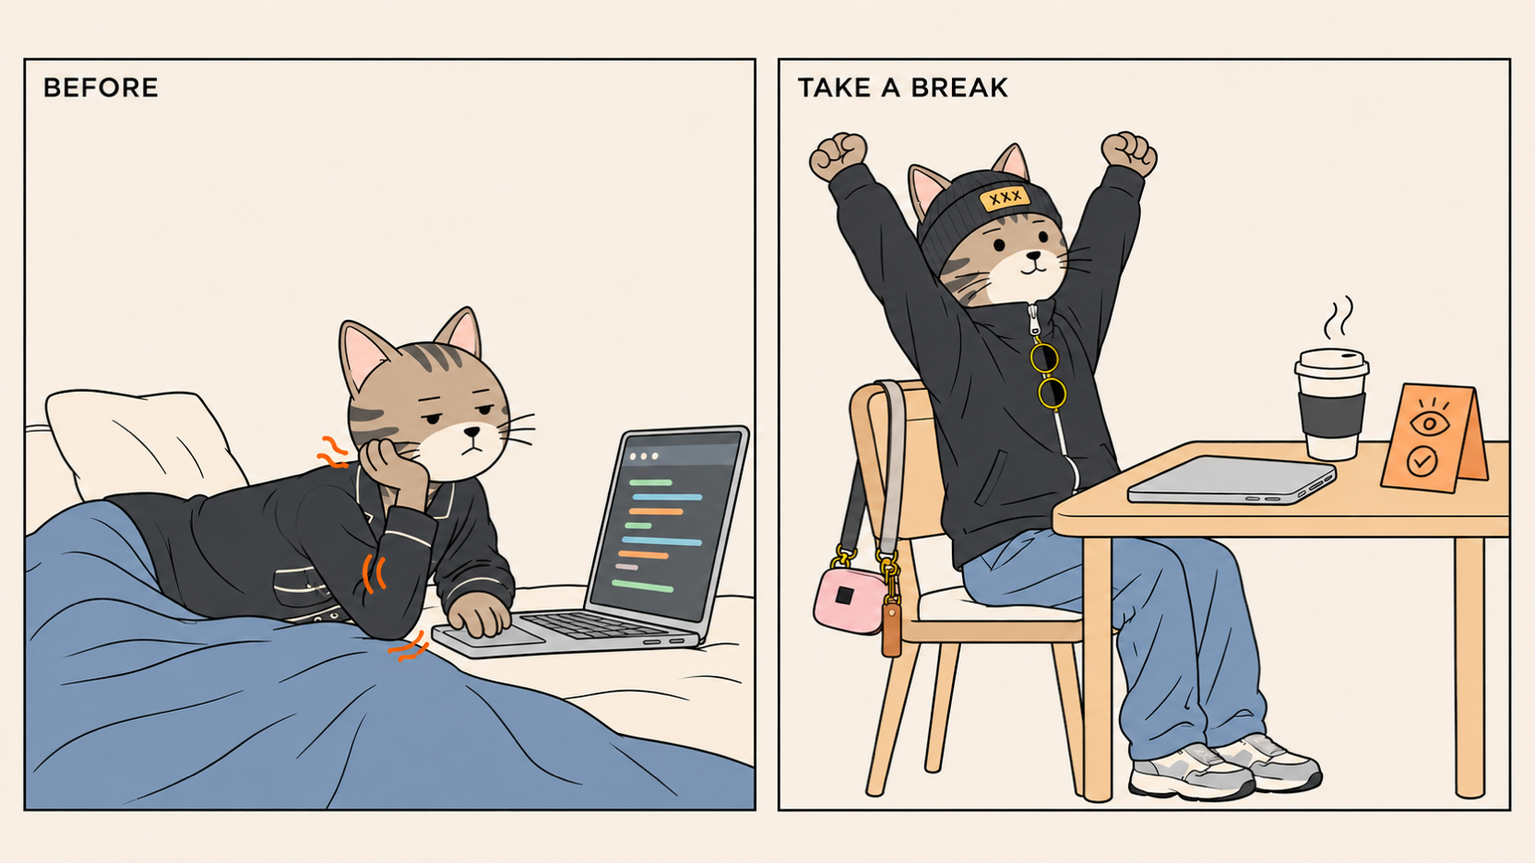
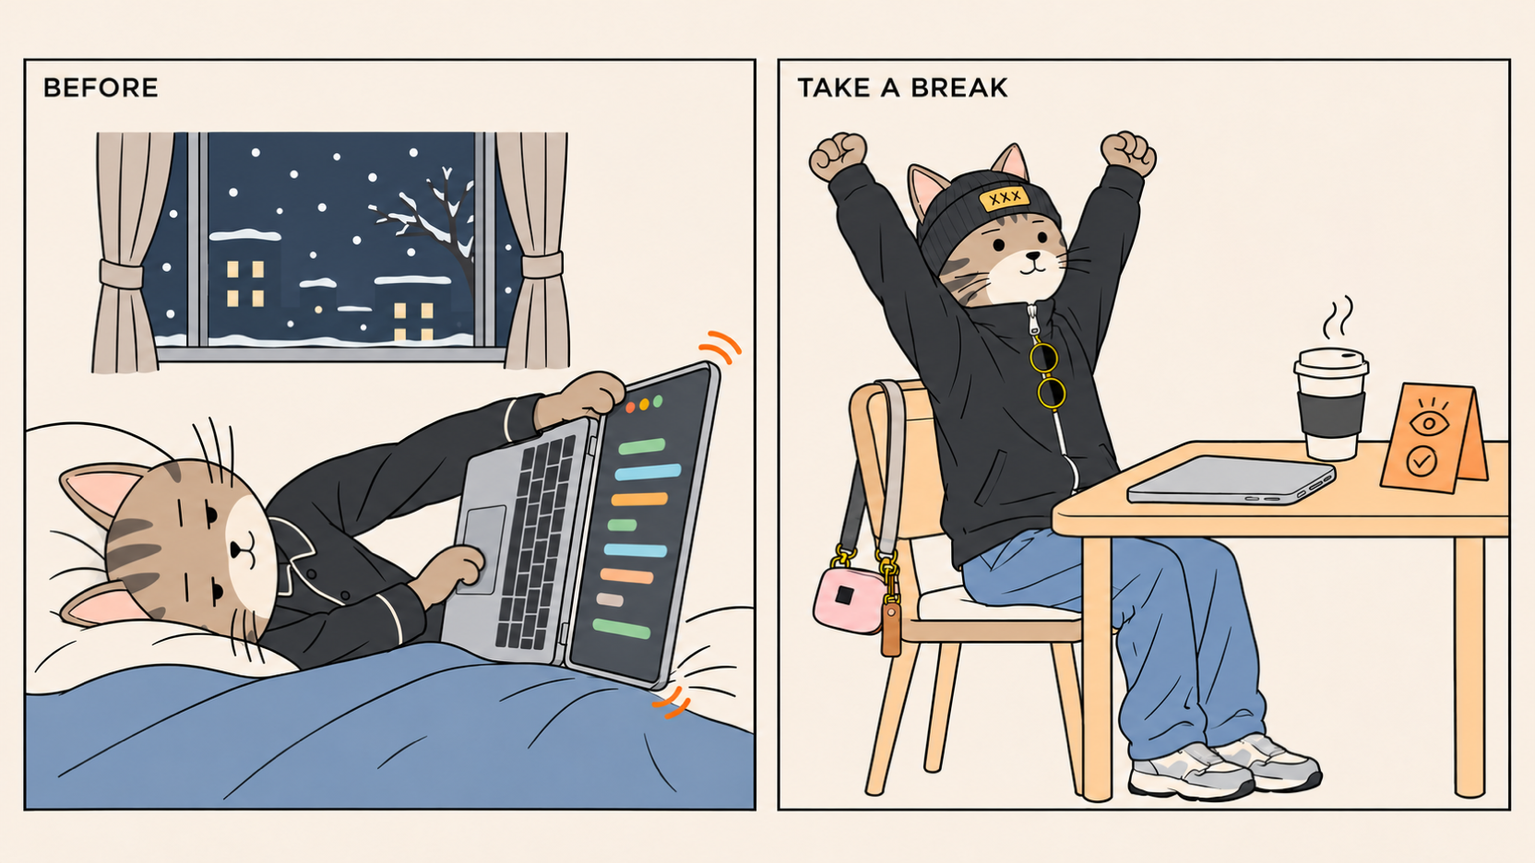
fix(trackpad): align 90°/270° transforms with CGDisplayRotation & refresh v0.2.3 UI/docs

diff --git a/Sources/SpinMacApp/MacBookPoseView.swift b/Sources/SpinMacApp/MacBookPoseView.swift
@@ -1,9 +1,10 @@
 import SpinMacCore
 import SwiftUI
 
-/// Dual-body geometric vector MacBook silhouette displaying live Display AND Trackpad orientation.
-/// - Display lid rotates smoothly with `displayAngle`.
-/// - Trackpad directional arrow independently reflects `effectiveTrackpadAngle` and `trackpadMode`.
+/// Flat-chassis dual-body geometric MacBook silhouette displaying live Display AND Trackpad orientation.
+/// - MacBook hardware stays flat and horizontal, matching real flat-on-bed / flat-on-desk placement.
+/// - Inside the display lid, an active edge bar + directional arrow point toward the rotated visual TOP.
+/// - Inside the glass trackpad, an independent directional arrow reflects `effectiveTrackpadAngle` and `trackpadMode`.
 struct MacBookPoseView: View {
     let displayAngle: SpinAngle
     let effectiveTrackpadAngle: SpinAngle
@@ -28,7 +29,7 @@ struct MacBookPoseView: View {
 
     private var trackpadArrowRotation: Double {
         if trackpadMode == .off { return 0 }
-        return -effectiveTrackpadAngle.visualRotationDegrees
+        return effectiveTrackpadAngle.contentTopDegrees
     }
 
     private var stageBadgeText: String {
@@ -51,7 +52,7 @@ struct MacBookPoseView: View {
                         .strokeBorder(Color.primary.opacity(isHovering ? 0.12 : 0.07), lineWidth: 1)
                         .frame(width: 102, height: 102)
 
-                    // Cardinal degree ticks
+                    // Cardinal degree ticks aligned directly with content-top arrow directions (0° up, 90° right, 180° down, 270° left)
                     ForEach(SpinAngle.allCases) { tickAngle in
                         let isDisplayTick = tickAngle == displayAngle
                         let isPadOnlyTick = isIndependentSplit && tickAngle == effectiveTrackpadAngle
@@ -65,19 +66,19 @@ struct MacBookPoseView: View {
                                 height: (isDisplayTick || isPadOnlyTick) ? 5 : 3
                             )
                             .offset(y: -51)
-                            .rotationEffect(.degrees(tickAngle.visualRotationDegrees))
+                            .rotationEffect(.degrees(tickAngle.contentTopDegrees))
                     }
 
-                    // Rotating MacBook hardware silhouette
+                    // Flat MacBook hardware silhouette — stays horizontal while screen & trackpad axes rotate
                     VStack(spacing: 3) {
                         // Display lid
-                        ZStack(alignment: .top) {
+                        ZStack {
                             RoundedRectangle(cornerRadius: 6, style: .continuous)
                                 .fill(
                                     LinearGradient(
                                         colors: [
-                                            Color.accentColor.opacity(displayAngle == .deg0 ? 0.12 : 0.26),
-                                            Color.accentColor.opacity(displayAngle == .deg0 ? 0.05 : 0.11),
+                                            Color.accentColor.opacity(displayAngle == .deg0 ? 0.12 : 0.24),
+                                            Color.accentColor.opacity(displayAngle == .deg0 ? 0.05 : 0.10),
                                         ],
                                         startPoint: .topLeading,
                                         endPoint: .bottomTrailing
@@ -88,28 +89,34 @@ struct MacBookPoseView: View {
                                         .strokeBorder(Color.primary.opacity(0.30), lineWidth: 1.4)
                                 )
 
-                            // Camera notch
-                            RoundedRectangle(cornerRadius: 1.5, style: .continuous)
-                                .fill(Color.primary.opacity(0.35))
-                                .frame(width: 12, height: 3)
-                                .padding(.top, 2)
+                            // Physical camera notch stays centered on the top bezel
+                            VStack {
+                                RoundedRectangle(cornerRadius: 1.5, style: .continuous)
+                                    .fill(Color.primary.opacity(0.35))
+                                    .frame(width: 12, height: 3)
+                                    .padding(.top, 2)
+                                Spacer(minLength: 0)
+                            }
 
-                            // Visual "TOP" direction indicator inside display
+                            // Active visual-top ("menu bar") edge indicator inside the flat screen
+                            rotatedTopEdgeBar
+
+                            // Visual "TOP" direction arrow + always-upright angle label
                             VStack(spacing: 1) {
                                 Image(systemName: "arrow.up")
-                                    .font(.system(size: 9.5, weight: .semibold))
+                                    .font(.system(size: 10, weight: .bold))
                                     .foregroundStyle(displayAngle == .deg0 ? Color.secondary : Color.accentColor)
+                                    .rotationEffect(.degrees(displayAngle.contentTopDegrees))
                                 Text(displayAngle.label)
                                     .font(.system(size: 8.5, weight: .semibold, design: .rounded))
                                     .monospacedDigit()
                                     .foregroundStyle(.primary.opacity(0.84))
                             }
-                            .frame(maxHeight: .infinity)
-                            .rotationEffect(.degrees(-displayAngle.visualRotationDegrees))
+                            .padding(.top, 3)
                         }
-                        .frame(width: 64, height: 40)
+                        .frame(width: 66, height: 42)
 
-                        // Lower deck + glass trackpad
+                        // Lower deck + glass trackpad (always flat)
                         ZStack {
                             RoundedRectangle(cornerRadius: 4, style: .continuous)
                                 .fill(Color.primary.opacity(0.06))
@@ -136,10 +143,9 @@ struct MacBookPoseView: View {
                                 }
                                 .frame(width: 24, height: 13)
                         }
-                        .frame(width: 64, height: 20)
+                        .frame(width: 66, height: 20)
                     }
-                    .rotationEffect(.degrees(displayAngle.visualRotationDegrees))
-                    .animation(.spring(response: 0.4, dampingFraction: 0.8), value: displayAngle)
+                    .animation(.spring(response: 0.35, dampingFraction: 0.82), value: displayAngle)
                     .animation(.spring(response: 0.35, dampingFraction: 0.82), value: effectiveTrackpadAngle)
                     .animation(.spring(response: 0.3, dampingFraction: 0.85), value: trackpadMode)
                 }
@@ -180,5 +186,39 @@ struct MacBookPoseView: View {
             isPressed = pressing
         }, perform: {})
         .help(l10n.t("popover.pose.help"))
+    }
+
+    @ViewBuilder
+    private var rotatedTopEdgeBar: some View {
+        switch displayAngle {
+        case .deg0:
+            EmptyView()
+        case .deg90:
+            // macOS 90° CW: physical left edge becomes visual top (menu bar)
+            HStack {
+                Capsule()
+                    .fill(Color.accentColor.opacity(0.85))
+                    .frame(width: 2.5, height: 26)
+                    .padding(.leading, 3)
+                Spacer(minLength: 0)
+            }
+        case .deg180:
+            VStack {
+                Spacer(minLength: 0)
+                Capsule()
+                    .fill(Color.accentColor.opacity(0.85))
+                    .frame(width: 34, height: 2.5)
+                    .padding(.bottom, 3)
+            }
+        case .deg270:
+            // macOS 270° CW (90° CCW): physical right edge becomes visual top (menu bar)
+            HStack {
+                Spacer(minLength: 0)
+                Capsule()
+                    .fill(Color.accentColor.opacity(0.85))
+                    .frame(width: 2.5, height: 26)
+                    .padding(.trailing, 3)
+            }
+        }
     }
 }

diff --git a/Tests/SpinMacCoreTests/SpinMacCoreTests.swift b/Tests/SpinMacCoreTests/SpinMacCoreTests.swift
@@ -12,25 +12,29 @@ struct SpinMacCoreTests {
         #expect(out.dy == -7)
     }
 
-    @Test("270° maps physical left/right/up/down cleanly to visual portrait axes")
-    func deg270ScreenDelta() {
-        let t = AxisTransform(angle: .deg270)
+    @Test("90° (CGDisplayRotation 90° CW: physical left edge is visual top) maps deltas cleanly")
+    func deg90ScreenDelta() {
+        let t = AxisTransform(angle: .deg90)
+        // Physical left (-x) -> visual up (-y)
         let up = t.transformScreenDelta(dx: -10, dy: 0)
         #expect(up.dx == 0)
         #expect(up.dy == -10)
 
+        // Physical up (-y, toward hinge) -> visual right (+x)
         let right = t.transformScreenDelta(dx: 0, dy: -10)
         #expect(right.dx == 10)
         #expect(right.dy == 0)
     }
 
-    @Test("90° is exact opposite of 270°")
-    func deg90ScreenDelta() {
-        let t = AxisTransform(angle: .deg90)
+    @Test("270° (CGDisplayRotation 270° CW: physical right edge is visual top) is exact opposite of 90°")
+    func deg270ScreenDelta() {
+        let t = AxisTransform(angle: .deg270)
+        // Physical right (+x) -> visual up (-y)
         let up = t.transformScreenDelta(dx: 10, dy: 0)
         #expect(up.dx == 0)
         #expect(up.dy == -10)
 
+        // Physical down (+y, toward user) -> visual right (+x)
         let right = t.transformScreenDelta(dx: 0, dy: 10)
         #expect(right.dx == 10)
         #expect(right.dy == 0)
@@ -44,25 +48,28 @@ struct SpinMacCoreTests {
         #expect(out.dy == 5)
     }
 
-    @Test("Dock swipe axes rotate consistently at 270° (Spaces <-> Mission Control)")
-    func dockSwipe270() {
-        let t = AxisTransform(angle: .deg270)
+    @Test("Dock swipe axes rotate consistently at 90° (Spaces <-> Mission Control)")
+    func dockSwipe90() {
+        let t = AxisTransform(angle: .deg90)
+        // Physical left swipe (motion 1, progress -0.6) -> visual UP Mission Control (motion 2, progress +0.6)
         let mc = t.transformDockSwipe(motion: 1, progress: -0.6)
         #expect(mc.motion == 2)
         #expect(abs(mc.progress - 0.6) < 0.0001)
 
+        // Physical up swipe (motion 2, progress +0.5) -> visual RIGHT Spaces (motion 1, progress +0.5)
         let sp = t.transformDockSwipe(motion: 2, progress: 0.5)
         #expect(sp.motion == 1)
         #expect(abs(sp.progress - 0.5) < 0.0001)
     }
 
     @Test("Normalized touch point rotation preserves center and maps edges accurately")
-    func normalizedPoint270() {
-        let t = AxisTransform(angle: .deg270)
+    func normalizedPoint90() {
+        let t = AxisTransform(angle: .deg90)
         let center = t.transformNormalizedYDownPoint(CGPoint(x: 0.5, y: 0.5))
         #expect(abs(center.x - 0.5) < 0.0001)
         #expect(abs(center.y - 0.5) < 0.0001)
 
+        // At 90° CW, physical left edge (x=0, y=0.5) maps to visual top (x=0.5, y=0.0)
         let leftMid = t.transformNormalizedYDownPoint(CGPoint(x: 0.0, y: 0.5))
         #expect(abs(leftMid.x - 0.5) < 0.0001)
         #expect(abs(leftMid.y - 0.0) < 0.0001)
@@ -72,12 +79,12 @@ struct SpinMacCoreTests {
     func autoCalibrateInference() {
         // 0°: physical swipe UP -> dy < 0
         #expect(AxisTransform.inferAngleForUpwardSwipe(rawYDownDeltaX: 0.02, rawYDownDeltaY: -0.35) == .deg0)
-        // 90°: physical right edge is top -> swipe right (dx > 0)
-        #expect(AxisTransform.inferAngleForUpwardSwipe(rawYDownDeltaX: 0.40, rawYDownDeltaY: 0.03) == .deg90)
+        // 90° CW: physical left edge is top -> swipe left (dx < 0)
+        #expect(AxisTransform.inferAngleForUpwardSwipe(rawYDownDeltaX: -0.38, rawYDownDeltaY: -0.04) == .deg90)
         // 180°: inverted -> swipe down (dy > 0)
         #expect(AxisTransform.inferAngleForUpwardSwipe(rawYDownDeltaX: -0.02, rawYDownDeltaY: 0.35) == .deg180)
-        // 270°: physical left edge is top -> swipe left (dx < 0)
-        #expect(AxisTransform.inferAngleForUpwardSwipe(rawYDownDeltaX: -0.38, rawYDownDeltaY: -0.04) == .deg270)
+        // 270° CW: physical right edge is top -> swipe right (dx > 0)
+        #expect(AxisTransform.inferAngleForUpwardSwipe(rawYDownDeltaX: 0.40, rawYDownDeltaY: 0.03) == .deg270)
         // Tiny accidental tap rejected
         #expect(AxisTransform.inferAngleForUpwardSwipe(rawYDownDeltaX: 0.03, rawYDownDeltaY: -0.04) == nil)
     }
@@ -195,5 +202,24 @@ struct SpinMacCoreTests {
         #expect(TrackpadScope.externalOnly.matches(isBuiltIn: false) == true)
         #expect(TrackpadScope.allTrackpads.matches(isBuiltIn: true) == true)
         #expect(TrackpadScope.allTrackpads.matches(isBuiltIn: false) == true)
+    }
+
+    @Test("Flat-chassis contentTopDegrees matches AxisTransform visual-UP direction across all 4 angles")
+    func contentTopDegreesInvariant() {
+        // 0° -> up (0°), 90° -> left (-90°), 180° -> down (180°), 270° -> right (+90°)
+        #expect(SpinAngle.deg0.contentTopDegrees == 0)
+        #expect(SpinAngle.deg90.contentTopDegrees == -90)
+        #expect(SpinAngle.deg180.contentTopDegrees == 180)
+        #expect(SpinAngle.deg270.contentTopDegrees == 90)
+
+        for angle in SpinAngle.allCases {
+            // Arrow pointing in contentTopDegrees (clockwise from up 0,-1) equals physical vector that maps to visual UP (0,-1).
+            let rad = angle.contentTopDegrees * .pi / 180.0
+            let physDx = sin(rad)
+            let physDy = -cos(rad)
+            let mapped = AxisTransform(angle: angle).transformScreenDelta(dx: physDx, dy: physDy)
+            #expect(abs(mapped.dx) < 0.0001)
+            #expect(abs(mapped.dy - (-1.0)) < 0.0001)
+        }
     }
 }

diff --git a/Sources/SpinMacCore/AxisTransform.swift b/Sources/SpinMacCore/AxisTransform.swift
@@ -39,15 +39,17 @@ public struct AxisTransform: Equatable, Sendable {
         case .deg0:
             return (x, y)
         case .deg90:
-            // Screen rotated 90° (physical right edge is visual top):
-            // physical +x (right) -> visual -y (up); physical +y (down) -> visual +x (right)
-            return (y, -x)
+            // macOS CGDisplayRotation 90° CW (kIOScaleRotate90 = SwapAxes | InvertX):
+            // physical left edge is visual top; physical top is visual right.
+            // physical -x (left) -> visual -y (up); physical -y (up) -> visual +x (right)
+            return (-y, x)
         case .deg180:
             return (-x, -y)
         case .deg270:
-            // Screen rotated 270° (physical left edge is visual top):
-            // physical -x (left) -> visual -y (up); physical -y (up) -> visual +x (right)
-            return (-y, x)
+            // macOS CGDisplayRotation 270° CW / 90° CCW (kIOScaleRotate270 = SwapAxes | InvertY):
+            // physical right edge is visual top; physical bottom is visual right.
+            // physical +x (right) -> visual -y (up); physical +y (down) -> visual +x (right)
+            return (y, -x)
         }
     }
 

diff --git a/Sources/SpinMacCore/Models.swift b/Sources/SpinMacCore/Models.swift
@@ -18,8 +18,19 @@ public enum SpinAngle: Int32, CaseIterable, Codable, Sendable, Identifiable {
         self == .deg90 || self == .deg270
     }
 
-    /// Physical clockwise visual rotation in degrees for rendering a laptop silhouette.
+    /// Physical clockwise visual rotation in degrees per Apple `CGDisplayRotation` convention.
     public var visualRotationDegrees: Double {
+        switch self {
+        case .deg0: return 0
+        case .deg90: return 90
+        case .deg180: return 180
+        case .deg270: return -90
+        }
+    }
+
+    /// Clockwise arrow angle on a flat laptop chassis pointing toward the physical edge that becomes visual TOP.
+    /// Aligned 1:1 with Apple `CGDisplayRotation` + `kIOScaleRotate*` (`90°` -> left edge `-90°`, `270°` -> right edge `+90°`).
+    public var contentTopDegrees: Double {
         switch self {
         case .deg0: return 0
         case .deg90: return -90

diff --git a/README.md b/README.md
@@ -1,12 +1,12 @@
 <div align="center">
 
-<img src="docs/assets/hero-bed-vibe-coding.png" alt="SpinMac — Late-night sideways laptop setup in bed with rotated screen and trackpad" width="100%"/>
+<img src="docs/assets/hero-bed-vibe-coding.png" alt="SpinMac — Late-night bed vibe coding with MacBook sitting flat on the mattress while screen and trackpad rotate 90° to match sideways eyes" width="100%"/>
 
 <br/><br/>
 
 # SpinMac
 
-**Built for cold-night vibe coding in bed. Stand your laptop on its side and spin the screen, trackpad, and every gesture to match.**
+**Built for cold-night vibe coding in bed. Keep your MacBook flat on the mattress and spin the screen, trackpad, and every gesture to match your sideways eyes.**
 
 Native SwiftUI & AppKit · Linked or Decoupled Orientation · Full Multi-Touch Parity · **0.0% Idle CPU**
 
@@ -30,14 +30,12 @@ Native SwiftUI & AppKit · Linked or Decoupled Orientation · Full Multi-Touch P
 
 Everyone is vibe coding nonstop right now, and I got completely hooked too. Most nights I am still messing with code past 2 AM. Now that the weather has turned cold, sitting upright at a desk late at night feels miserable. I just want to crawl under a warm blanket early with my laptop.
 
-Before writing this tool, my bed setup looked pretty ridiculous: laptop sitting flat on the mattress to my right, lying on my right side facing it, right elbow jammed into the bed, forearm folded straight back up with my right palm propping up the side of my head so my eyes stayed level, while my left hand reached across for the trackpad. Ten minutes in, my arm was numb and my neck hated me.
+Lying sideways on a pillow in bed, I realized that standing a MacBook up on its side edge actually lines the screen up with sideways eyes. The problem is obvious the moment you try it on a soft mattress: the laptop wobbles and wants to tip over constantly, and typing or using a vertical trackpad in mid-air is miserable.
 
-One night I stood the laptop up sideways on its edge instead. Turns out it balances rock-solid on a mattress, and I could finally put my head flat on the pillow. The catch is that macOS hides the Display Rotation setting whenever no external monitor is plugged in. Even after forcing the screen sideways, the trackpad stays locked upright, so swiping up sends the cursor flying sideways and every multi-finger gesture fights you.
-
-So I made **SpinMac**. Whether you roll onto your right side (`270°`) or your left side (`90°`), one shortcut (`⌃⌥⌘R`) spins the built-in display, the trackpad, and all your multi-touch gestures together. You can also decouple them completely if you want different angles on screen and trackpad.
+So I built **SpinMac**. Instead of balancing your MacBook on its edge, **leave the laptop completely flat and rock-solid on the bed**, put your head down on the pillow, and spin the display and trackpad in software. macOS hides Display Rotation whenever no external monitor is plugged in, and rotating only the screen leaves the trackpad fighting every swipe. With SpinMac, one shortcut (`⌃⌥⌘R`) rotates the built-in display, the trackpad, and every multi-touch gesture together — `90°` (`Top ←`, left edge up) when lying on your left side, or `270°` (`Top →`, right edge up) when lying on your right side. You can also decouple display and trackpad angles completely.
 
 <div align="center">
-  <img src="docs/assets/before-and-break.png" alt="Before SpinMac: propping head with numb right elbow vs. remembering to take a break at a desk" width="100%"/>
+  <img src="docs/assets/before-and-break.png" alt="Before SpinMac: trying to balance a sideways laptop on a soft mattress vs. taking an eye-health break at a desk" width="100%"/>
 </div>
 
 > **Friendly Eye-Health Reminder**
@@ -156,7 +154,7 @@ No. SpinMac registers both `applicationWillTerminate` and a C-level `atexit` hoo
 
 ## Author, Contributing & License
 
-Built by **BobbyCat** ([`@BobbyCat2025` on X](https://x.com/BobbyCat2025) · [GitHub](https://github.com/BobbyCats)). If SpinMac saved your right elbow (or enabled a very cozy 2 AM coding session), come say hi on X — I share weird little tools I build for myself and the messy logs behind them.
+Built by **BobbyCat** ([`@BobbyCat2025` on X](https://x.com/BobbyCat2025) · [GitHub](https://github.com/BobbyCats)). If SpinMac saved your MacBook from tipping over on your bed (or enabled a very cozy 2 AM coding session), come say hi on X — I share weird little tools I build for myself and the messy logs behind them.
 
 <details>
 <summary>☕ <strong>Enjoying SpinMac? Buy Me a Coffee (WeChat Tip QR)</strong></summary>

diff --git a/README.zh-CN.md b/README.zh-CN.md
@@ -1,12 +1,12 @@
 <div align="center">
 
-<img src="docs/assets/hero-bed-vibe-coding.png" alt="SpinMac — 凌晨两点缩在被窝里侧躺立着玩电脑，屏幕与触控板同步旋转" width="100%"/>
+<img src="docs/assets/hero-bed-vibe-coding.png" alt="SpinMac — 凌晨两点缩在被窝里侧躺玩电脑，笔记本稳稳平放在床上，屏幕画面与触控板同步旋转 90° 对齐视线" width="100%"/>
 
 <br/><br/>
 
 # SpinMac
 
-**天冷不想离开被窝？把电脑沿着侧面立在床上，屏幕、触控板和多指手势一键跟着转过来。**
+**天冷不想离开被窝？不用把电脑立着放，让它稳稳平摊在床上，只把屏幕、触控板和多指手势一键跟着转过来。**
 
 纯原生 SwiftUI & AppKit · 联动或独立旋转 · 多指手势全量一致 · **静止 0.0% CPU**
 
@@ -30,14 +30,12 @@
 
 最近大家都在 vibe coding，我也彻底上瘾，经常一写就搞到凌晨。天冷下来以后，晚上实在不想在书桌前干坐着，只想早点钻被窝缩着玩电脑，恨不得睡觉都抱着电脑。
 
-在写这个工具之前，我在床上看电脑的姿势特别受罪。我把电脑平放在右手边，人朝右侧躺面向电脑，右肘死死撑在床垫上，小臂折回来用右手掌把头支起来，左手再伸过去够触控板。看不了十来分钟，右手臂就麻了，脖子也酸得要命。
+在床上侧躺着看电脑时，我一开始发现：只要把笔记本沿着侧面立起来，屏幕里的文字方向就能跟侧躺的眼睛对上。但真放到软绵绵的床垫上就会发现，电脑根本立不稳，稍微动一下就歪斜着要栽倒，一只手得扶着机身，另一只手还得别扭地去够竖起来的键盘和触控板，完全没法正常干活。
 
-后来有天晚上，我随手把电脑沿着侧面立在床垫上，发现它居然能放得很稳，脑袋终于可以老老实实放平枕在枕头上了。麻烦在于，Mac 在没有外接显示器的时候，系统设置里会把屏幕旋转藏起来。就算想办法把画面转过来了，触控板还停在横屏方向，手指往上划指针往右飙，翻页和切桌面全在跟你拧着干。
-
-索性自己写了 **SpinMac**。以后不管是朝右侧躺（`270°`）还是朝左侧躺（`90°`），按一下快捷键 `⌃⌥⌘R`，屏幕、触控板连带所有多指手势一起转过来。如果你想把屏幕和触控板拆成不同角度单独用，也一样支持。
+索性自己写了 **SpinMac**。**电脑照样老老实实平放在床上**（稳当、好打字、好摸触控板），脑袋舒舒服服平枕在枕头上，只用软件把屏幕画面和触控板方向一起转过来就行。macOS 在没接外屏时会隐藏屏幕旋转，光转屏幕不转触控板又会让光标和手势全在跟你拧着干。现在只要按一下快捷键 `⌃⌥⌘R`，内建屏、触控板连带所有多指手势同步跟着视线走：向左侧躺选 `90°`（顶朝左），向右侧躺选 `270°`（顶朝右），屏和板也可以拆开单独设角度。
 
 <div align="center">
-  <img src="docs/assets/before-and-break.png" alt="使用前侧躺右肘撑头手麻受罪，以及记得坐直护眼休息的对比漫画" width="100%"/>
+  <img src="docs/assets/before-and-break.png" alt="使用前试图把电脑侧立在软床垫上摇晃快倒难操作，以及记得白天坐直护眼休息的对比漫画" width="100%"/>
 </div>
 
 > **顺带说句实在的护眼提醒**
@@ -155,7 +153,7 @@ macOS 公开 API 没有开放内建屏旋转和底层 Dock 手势重写，SpinMa
 
 ## 关于作者、参与贡献与协议
 
-作者 **BobbyCat**（X：[`@BobbyCat2025`](https://x.com/BobbyCat2025) · [GitHub](https://github.com/BobbyCats)）。如果这个小工具刚好解救了你发麻的右手肘，或者给你带来一点有意思的参考，欢迎来 X 找我玩，我平时常发一些自己随手搓的实用工具和踩坑实录。
+作者 **BobbyCat**（X：[`@BobbyCat2025`](https://x.com/BobbyCat2025) · [GitHub](https://github.com/BobbyCats)）。如果这个小工具刚好帮你的 MacBook 稳稳平躺在床上不再栽倒，或者给你带来一点有意思的参考，欢迎来 X 找我玩，我平时常发一些自己随手搓的实用工具和踩坑实录。
 
 <details>
 <summary>☕ <strong>如果 SpinMac 帮到你了，欢迎请我喝杯咖啡（Buy Me a Coffee · 微信赞赏）</strong></summary>
